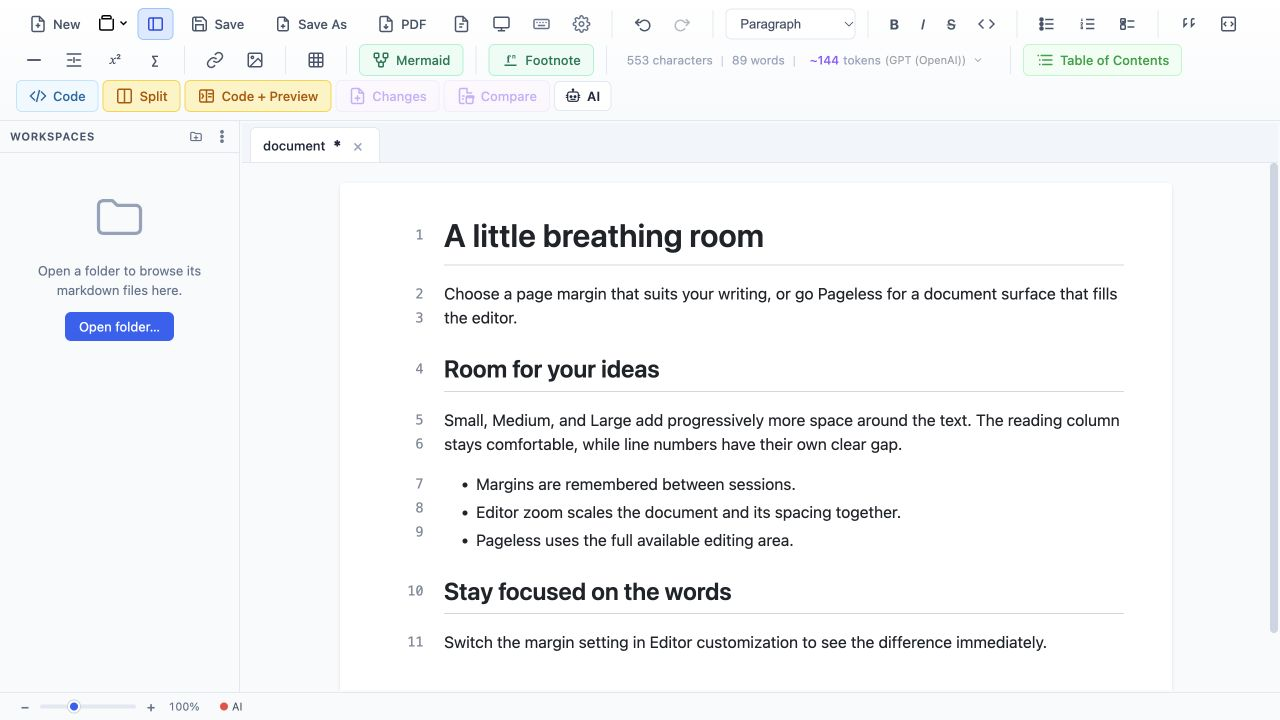
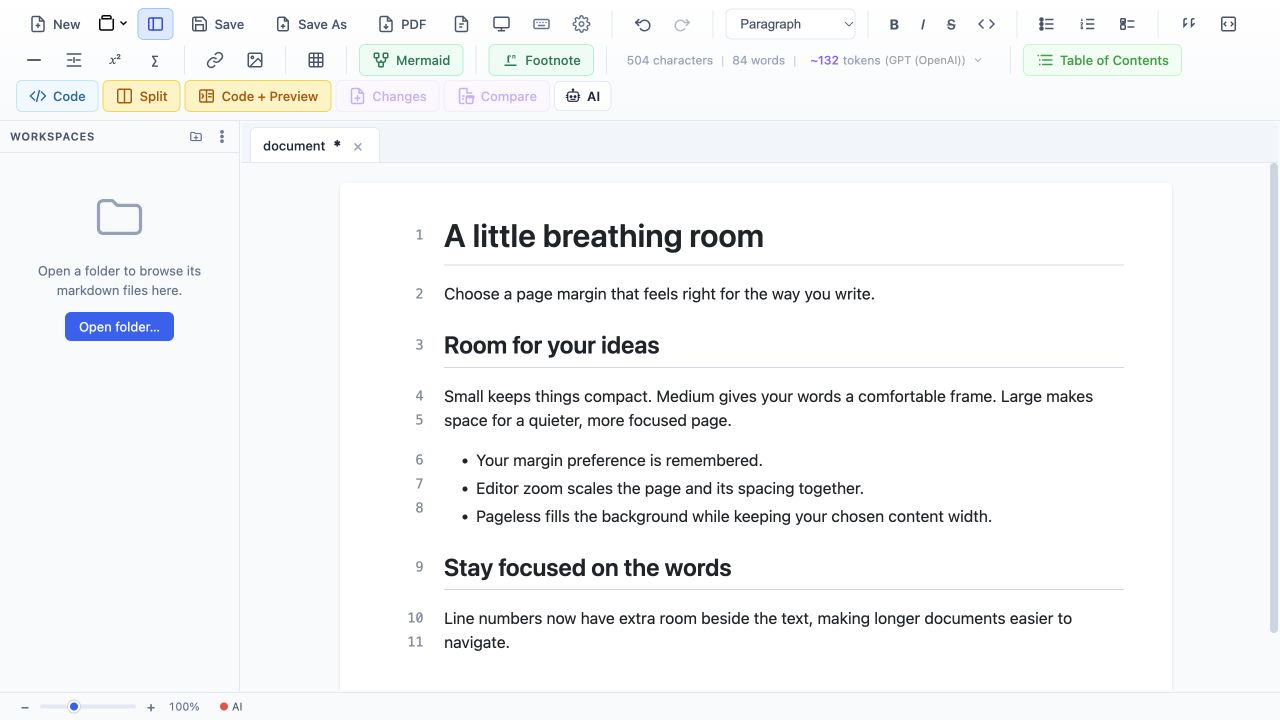
fix: preserve content width in pageless editor

diff --git a/tests/e2e/document-styles.test.ts b/tests/e2e/document-styles.test.ts
@@ -25,6 +25,51 @@ async function sizes(page: Page) {
   }));
 }
 
+for (const zoom of [50, 100, 150]) {
+  test(`Pageless preserves content width and gutter alignment at ${zoom}% zoom`, async ({ page }) => {
+    await page.setViewportSize({ width: 1600, height: 1000 });
+    await page.addInitScript(value => localStorage.setItem('mermark-editor-zoom', String(value)), zoom);
+    await start(page);
+    await page.locator('#editor-margin').selectOption('pageless');
+    await page.getByTestId('document-overrides').locator('summary').click();
+    for (const width of [520, 680]) {
+      await range(page, 'contentWidth', width);
+      expect((await sizes(page)).width).toBeCloseTo(width * zoom / 100, 0);
+    }
+    await page.locator('.setting-row').filter({ has: page.getByText('Line numbers', { exact: true }) }).getByRole('button', { name: 'On', exact: true }).click();
+    expect((await sizes(page)).width).toBeCloseTo(680 * zoom / 100, 0);
+    await page.getByRole('button', { name: 'Close', exact: true }).click();
+    await expect(page.locator('.editor-pane.active .editor-gutter-line').first()).toBeVisible();
+    const geometry = () => page.locator('.editor-pane.active .editor-container').evaluate(container => {
+      const wrapper = container.querySelector('.editor-content-wrapper')!;
+      const content = container.querySelector('.editor-content')!;
+      const rect = container.getBoundingClientRect();
+      const background = wrapper.getBoundingClientRect();
+      const column = content.getBoundingClientRect();
+      return {
+        paneWidth: rect.width,
+        backgroundWidth: background.width,
+        fillsHeight: background.bottom >= rect.bottom - 1,
+        sameBackground: getComputedStyle(wrapper).backgroundColor === getComputedStyle(content).backgroundColor,
+        centered: Math.abs((column.left + column.right) / 2 - (background.left + background.right) / 2) < 1,
+        gutterRight: container.querySelector('.editor-gutter')!.getBoundingClientRect().right,
+        textLeft: container.querySelector('.tiptap')!.getBoundingClientRect().left,
+        noOverflow: container.scrollWidth <= container.clientWidth,
+      };
+    });
+    for (const viewportWidth of [1600, 600]) {
+      await page.setViewportSize({ width: viewportWidth, height: 1000 });
+      const layout = await geometry();
+      expect(layout.backgroundWidth).toBeCloseTo(layout.paneWidth, 0);
+      expect(layout.fillsHeight).toBe(true);
+      expect(layout.sameBackground).toBe(true);
+      expect(layout.centered).toBe(true);
+      expect(layout.gutterRight).toBeCloseTo(layout.textLeft, 0);
+      expect(layout.noOverflow).toBe(true);
+    }
+  });
+}
+
 test('all seven styles render matching editor previews with independent, persistent overrides', async ({ page }) => {
   await start(page);
   const selector = page.getByTestId('document-style-select');

diff --git a/src/components/Editor.vue b/src/components/Editor.vue
@@ -1014,8 +1014,16 @@ defineExpose({
 
 .editor-content-wrapper.is-pageless .editor-content {
   flex: 1;
+  width: 100%;
+  max-width: calc(var(--doc-content-width, 680px) + var(--editor-gutter-width, 0px));
+  margin: 0 auto;
   border-radius: 0;
   box-shadow: none;
+}
+
+.editor-content-wrapper.is-pageless > .editor-gutter {
+  /* Keep the gutter beside the centered text, while the background fills the pane. */
+  left: max(0px, calc((100% - var(--doc-content-width, 680px) - var(--editor-gutter-width, 0px)) / 2));
 }
 
 :where(.editor-content .tiptap) {
